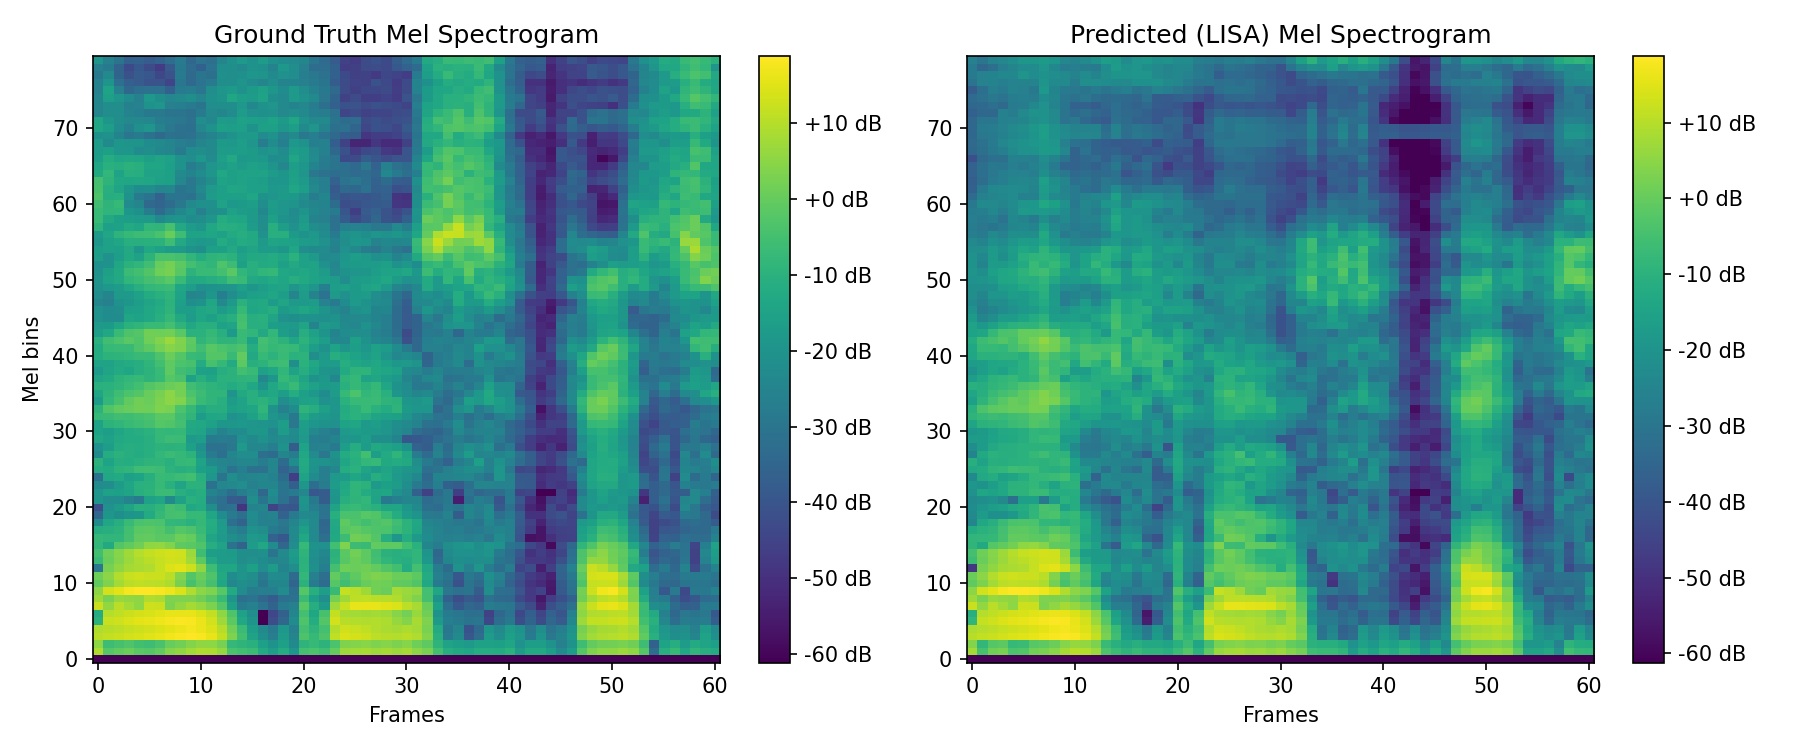
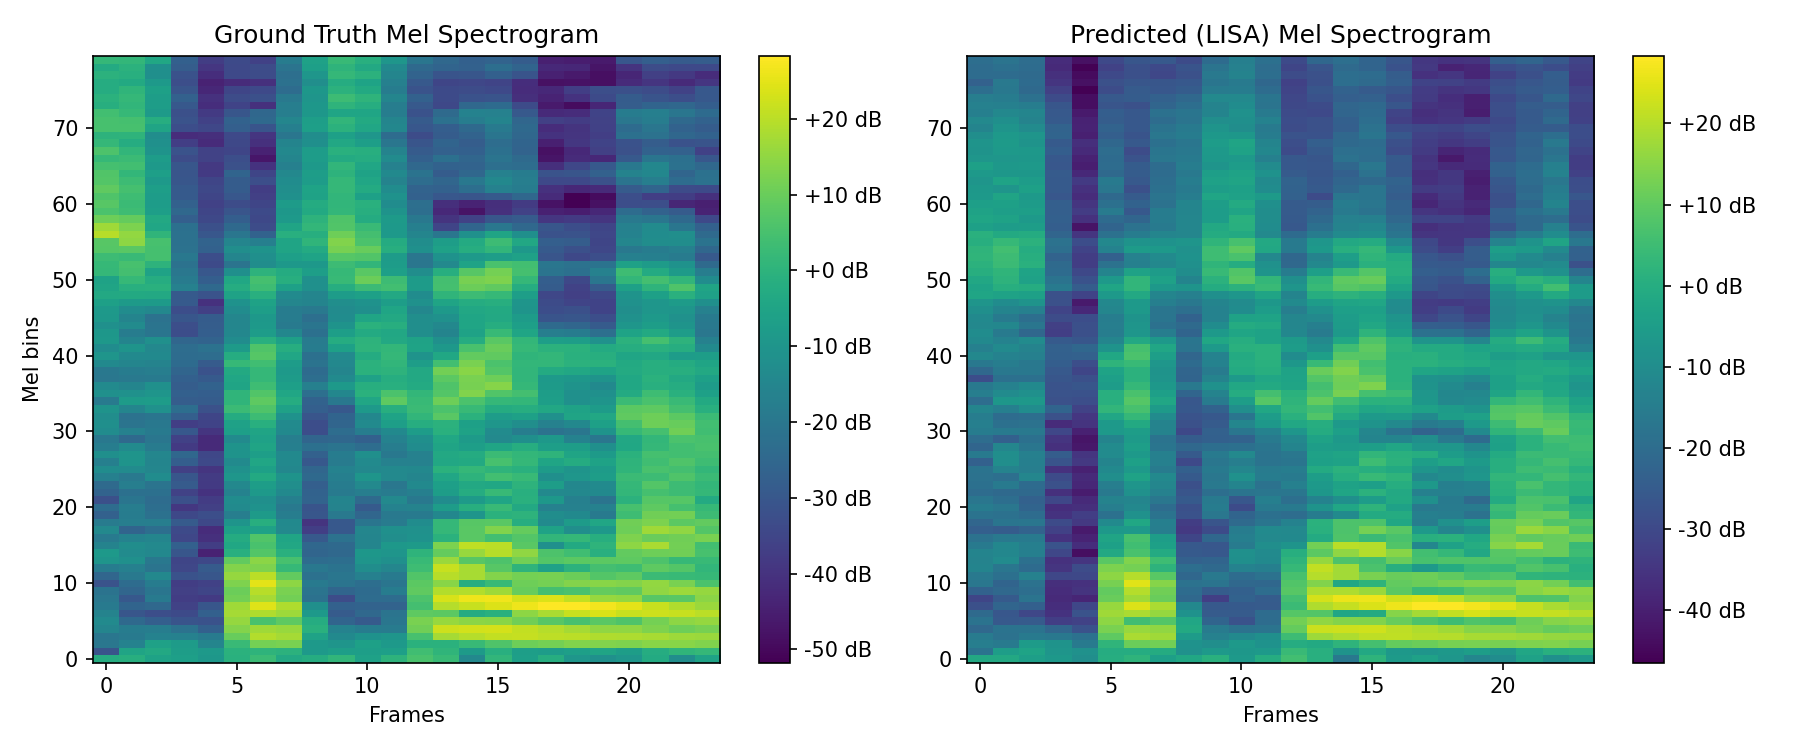
one lisa run

diff --git a/test.py b/test.py
@@ -18,7 +18,7 @@ def plot_mel_spectrogram(y_true, y_pred, sr, save_path):
     Generates a side-by-side Mel Spectrogram comparison and saves it to disk.
     """
     # Define transforms
-    mel_transform = torchaudio.transforms.MelSpectrogram(sample_rate=sr, n_mels=80)
+    mel_transform = torchaudio.transforms.MelSpectrogram(sample_rate=sr, n_mels=80, n_fft=1024)
     db_transform = torchaudio.transforms.AmplitudeToDB(top_db=80)
 
     # Convert to decibel mel-spectrograms